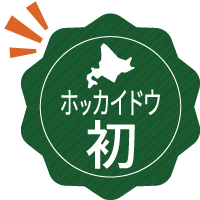
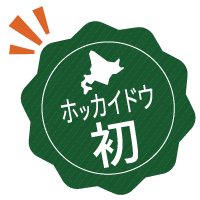
Add files via upload

Changed region(s): [[0.03, 0.0, 1.0, 1.0], [0.0, 0.06, 0.12, 0.18], [0.12, 0.12, 0.15, 0.15]]

diff --git a/css/description.css b/css/description.css
@@ -2,7 +2,7 @@
     display: flex;
     justify-content: center;
     align-items: center;
-
+position: relative;
 }
 
 .description__img {
@@ -11,9 +11,9 @@
 
 .hokkaidou__img{
     position: absolute;
-    top: 70px;
-    left: 10%;
-    width: 10%;
+    top: 10px;
+    left: 0%;
+    width: 12%;
 }
 
 .description__txt {
@@ -54,9 +54,9 @@
 
 .hokkaidou__img{
     position: absolute;
-    top: 70px;
-    left: 25%;
-    width: 15%;
+    top: -10px;
+    left: 14.5%;
+    width: 18%;
 }
 
     .description__txt {

diff --git a/index.html b/index.html
@@ -721,7 +721,6 @@
             <address>
                 <p>〒0604-0801</p>
                 <p>北海道札幌市南1条西20丁目1-6&emsp;COMMU120&emsp;602F</p>
-              
                 <p>受付時間&emsp;10：00～20：00</p>
 
                 <div class="map">

diff --git a/css/nayami.css b/css/nayami.css
@@ -1,5 +1,3 @@
-/* -----ここからお悩み */
-
 .nayami__box {
     display: flex;
     flex-wrap: wrap;
@@ -40,4 +38,9 @@
         padding: 5px;
         /* white-space: pre-line; */
     }
+
+.nayami__item figcaption{
+    font-size: var(--fs-body);
+}
+
 }
